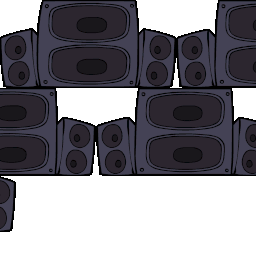
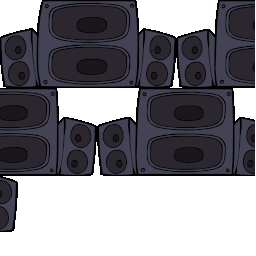
Fix some rendering issues

diff --git a/src/stage/week3.c b/src/stage/week3.c
@@ -76,15 +76,15 @@ void Back_Week3_DrawBG(StageBack *back)
 		RECT src;
 		fixed_t scale;
 	} roof_piece[] = {
-		{{  0, 0,  16, 256}, FIXED_DEC(3,1) * 7 / 10},
+		{{  0, 0,  16, 256}, FIXED_MUL(FIXED_DEC(3,1) * 7 / 10, FIXED_UNIT + FIXED_DEC(SCREEN_WIDEOADD,2) * 10 / 336)},
 		{{ 16, 0,  55, 256}, FIXED_DEC(1,1) * 9 / 10},
 		{{ 71, 0, 128, 256}, FIXED_DEC(265,100) * 7 / 10},
 		{{199, 0,  55, 256}, FIXED_DEC(1,1) * 9 / 10},
-		{{255, 0,   0, 256}, FIXED_DEC(16,1)}
+		{{255, 0,   0, 256}, FIXED_DEC(16,1) + FIXED_DEC(SCREEN_WIDEOADD2,1)}
 	};
 	
 	RECT_FIXED roof_dst = {
-		FIXED_DEC(-210,1) - fx,
+		FIXED_DEC(-210,1) - FIXED_DEC(SCREEN_WIDEOADD,2) - fx,
 		FIXED_DEC(-106,1) - fy,
 		0,
 		FIXED_DEC(220,1)
@@ -98,8 +98,9 @@ void Back_Week3_DrawBG(StageBack *back)
 		roof_dst.x += roof_dst.w;
 	}
 	
+	RECT roof_fillsrc = {0, 255, 1, 0};
 	RECT roof_fill = {0, SCREEN_HEIGHT * 2 / 3, SCREEN_WIDTH, SCREEN_HEIGHT * 1 / 3};
-	Gfx_DrawRect(&roof_fill, 49, 58, 115);
+	Gfx_DrawTex(&this->tex_back2, &roof_fillsrc, &roof_fill);
 	
 	//Move train
 	if (this->train_x <= TRAIN_END_X)
@@ -200,8 +201,9 @@ void Back_Week3_DrawBG(StageBack *back)
 	building_src.y += building_src.h;
 	Stage_DrawTex(&this->tex_back0, &building_src, &building_dst, stage.camera.bzoom);
 	
+	RECT building_fillsrc = {0, 255, 1, 0};
 	RECT building_fill = {0, SCREEN_HEIGHT * 3 / 7, SCREEN_WIDTH, SCREEN_HEIGHT * 4 / 7};
-	Gfx_DrawRect(&building_fill, 16, 8, 25);
+	Gfx_DrawTex(&this->tex_back0, &building_fillsrc, &building_fill);
 	
 	//Draw sky
 	fx = stage.camera.x >> 3;
@@ -209,10 +211,10 @@ void Back_Week3_DrawBG(StageBack *back)
 	
 	RECT sky_src = {0, 0, 255, 128};
 	RECT_FIXED sky_dst = {
-		FIXED_DEC(-166,1) - fx,
-		FIXED_DEC(-117,1) - fy,
-		FIXED_DEC(172,1),
-		FIXED_DEC(110,1)
+		FIXED_DEC(-166,1) - FIXED_DEC(SCREEN_WIDEOADD,2) - fx,
+		FIXED_DEC(-117,1) - FIXED_DEC(SCREEN_WIDEOADD,4) - fy,
+		FIXED_DEC(172,1) + FIXED_DEC(SCREEN_WIDEOADD,1),
+		FIXED_DEC(110,1) + FIXED_DEC(SCREEN_WIDEOADD,2)
 	};
 	
 	Stage_DrawTex(&this->tex_back5, &sky_src, &sky_dst, stage.camera.bzoom);

diff --git a/src/stage/week1.c b/src/stage/week1.c
@@ -28,14 +28,14 @@ void Back_Week1_DrawBG(StageBack *back)
 	
 	RECT curtainl_src = {0, 0, 107, 221};
 	RECT_FIXED curtainl_dst = {
-		FIXED_DEC(-250,1) - fx,
+		FIXED_DEC(-250,1) - FIXED_DEC(SCREEN_WIDEOADD,2) - fx,
 		FIXED_DEC(-150,1) - fy,
 		FIXED_DEC(107,1),
 		FIXED_DEC(221,1)
 	};
 	RECT curtainr_src = {122, 0, 134, 256};
 	RECT_FIXED curtainr_dst = {
-		FIXED_DEC(130,1) - fx,
+		FIXED_DEC(110,1) + FIXED_DEC(SCREEN_WIDEOADD,2) - fx,
 		FIXED_DEC(-150,1) - fy,
 		FIXED_DEC(134,1),
 		FIXED_DEC(256,1)
@@ -50,10 +50,10 @@ void Back_Week1_DrawBG(StageBack *back)
 	
 	RECT stage_src = {0, 0, 256, 59};
 	RECT_FIXED stage_dst = {
-		FIXED_DEC(-215,1) - fx,
+		FIXED_DEC(-230,1) - FIXED_DEC(SCREEN_WIDEOADD,2) - fx,
 		FIXED_DEC(50,1) - fy,
-		FIXED_DEC(432,1),
-		FIXED_DEC(115,1)
+		FIXED_DEC(410,1) + FIXED_DEC(SCREEN_WIDEOADD,1),
+		FIXED_DEC(106,1)
 	};
 	
 	Stage_DrawTex(&this->tex_back0, &stage_src, &stage_dst, stage.camera.bzoom);
@@ -76,9 +76,17 @@ void Back_Week1_DrawBG(StageBack *back)
 		FIXED_DEC(136,1),
 		FIXED_DEC(120,1)
 	};
+	RECT backf_src = {0, 59, 1, 1};
+	RECT backf_dst = {
+		0,
+		0,
+		SCREEN_WIDTH,
+		SCREEN_HEIGHT,
+	};
 	
 	Stage_DrawTex(&this->tex_back0, &backl_src, &backl_dst, stage.camera.bzoom);
 	Stage_DrawTex(&this->tex_back0, &backr_src, &backr_dst, stage.camera.bzoom);
+	Gfx_DrawTex(&this->tex_back0, &backf_src, &backf_dst);
 }
 
 void Back_Week1_Free(StageBack *back)
@@ -107,9 +115,6 @@ StageBack *Back_Week1_New(void)
 	Gfx_LoadTex(&this->tex_back0, Archive_Find(arc_back, "back0.tim"), 0);
 	Gfx_LoadTex(&this->tex_back1, Archive_Find(arc_back, "back1.tim"), 0);
 	Mem_Free(arc_back);
-	
-	//Use purple background
-	Gfx_SetClear(58, 41, 66);
 	
 	return (StageBack*)this;
 }

diff --git a/src/character/speaker.c b/src/character/speaker.c
@@ -17,18 +17,22 @@ void Speaker_Init(Speaker *this)
 void Speaker_Bump(Speaker *this)
 {
 	//Set bump
-	this->bump = FIXED_DEC(4,1) / 24;
+	this->bump = FIXED_DEC(4,1) / 24 - 1;
 }
 
 void Speaker_Tick(Speaker *this, fixed_t x, fixed_t y)
 {
 	//Get frame to use according to bump
 	u8 frame;
-	this->bump -= timer_dt;
 	if (this->bump > 0)
+	{
 		frame = (this->bump * 24) >> FIXED_SHIFT;
+		this->bump -= timer_dt;
+	}
 	else
+	{
 		frame = 0;
+	}
 	
 	//Draw speakers
 	static const struct SpeakerPiece
@@ -37,12 +41,12 @@ void Speaker_Tick(Speaker *this, fixed_t x, fixed_t y)
 		u8 ox, oy;
 	} speaker_draw[4][2] = {
 		{ //bump 0
-			{{ 96,  88, 160, 88},   0,  0},
-			{{  0, 176,  16, 56}, 160, 32},
+			{{ 97,  88, 158, 88},   0,  0},
+			{{  0, 176,  18, 56}, 158, 32},
 		},
 		{ //bump 1
-			{{176,   0,  80, 88},   0,  0},
-			{{  0,  88,  96, 88},  80,  0},
+			{{176,   0,  79, 88},   0,  0},
+			{{  0,  88,  97, 88},  79,  0},
 		},
 		{ //bump 2
 			{{  0,   0,  88, 88},   0,  0},
@@ -59,8 +63,6 @@ void Speaker_Tick(Speaker *this, fixed_t x, fixed_t y)
 	{
 		//Draw piece
 		RECT piece_src = {piece->rect[0], piece->rect[1], piece->rect[2], piece->rect[3]};
-		if ((piece_src.x + piece_src.w) >= 0x100)
-			piece_src.w = 0xFF - piece_src.x;
 		RECT_FIXED piece_dst = {
 			x - FIXED_DEC(88,1) + ((fixed_t)piece->ox << FIXED_SHIFT) - stage.camera.x,
 			y + ((fixed_t)piece->oy << FIXED_SHIFT) - stage.camera.y,

diff --git a/src/stagedef_disc1.h b/src/stagedef_disc1.h
@@ -1,6 +1,6 @@
 	{ //StageId_1_1 (Bopeebo)
 		//Characters
-		{Char_BF_New,   FIXED_DEC(105,1),  FIXED_DEC(100,1)},
+		{Char_BF_New,    FIXED_DEC(60,1),  FIXED_DEC(100,1)},
 		{Char_Dad_New, FIXED_DEC(-120,1),  FIXED_DEC(100,1)},
 		{Char_GF_New,     FIXED_DEC(0,1),    FIXED_DEC(0,1)},
 		
@@ -16,7 +16,7 @@
 	},
 	{ //StageId_1_2 (Fresh)
 		//Characters
-		{Char_BF_New,   FIXED_DEC(105,1),  FIXED_DEC(100,1)},
+		{Char_BF_New,    FIXED_DEC(60,1),  FIXED_DEC(100,1)},
 		{Char_Dad_New, FIXED_DEC(-120,1),  FIXED_DEC(100,1)},
 		{Char_GF_New,     FIXED_DEC(0,1),  FIXED_DEC(-15,1)},
 		
@@ -32,7 +32,7 @@
 	},
 	{ //StageId_1_3 (Dadbattle)
 		//Characters
-		{Char_BF_New,   FIXED_DEC(105,1),  FIXED_DEC(100,1)},
+		{Char_BF_New,    FIXED_DEC(60,1),  FIXED_DEC(100,1)},
 		{Char_Dad_New, FIXED_DEC(-120,1),  FIXED_DEC(100,1)},
 		{Char_GF_New,     FIXED_DEC(0,1),  FIXED_DEC(-15,1)},
 		
@@ -48,7 +48,7 @@
 	},
 	{ //StageId_1_4 (Tutorial)
 		//Characters
-		{Char_BF_New,  FIXED_DEC(105,1),  FIXED_DEC(100,1)},
+		{Char_BF_New,   FIXED_DEC(60,1),  FIXED_DEC(100,1)},
 		{Char_Dad_New,   FIXED_DEC(0,1),  FIXED_DEC(-15,1)}, //TODO
 		{Char_GF_New,    FIXED_DEC(0,1),  FIXED_DEC(-15,1)},
 		

diff --git a/src/stage/week2.c b/src/stage/week2.c
@@ -56,6 +56,26 @@ void Back_Week2_DrawBG(StageBack *back)
 	};
 	
 	Stage_DrawTex(&this->tex_back0, &back_src, &back_dst, stage.camera.bzoom);
+	
+	#if SCREEN_WIDTH > 320
+		RECT backl_src = {0, 0, 1, 256};
+		RECT_FIXED backl_dst = {
+			FIXED_DEC(-185,1) - FIXED_DEC(SCREEN_WIDEADD,2) - fx,
+			FIXED_DEC(-125,1) - fy,
+			FIXED_DEC(SCREEN_WIDEADD,2),
+			FIXED_DEC(267,1)
+		};
+		RECT backr_src = {255, 0, 0, 256};
+		RECT_FIXED backr_dst = {
+			FIXED_DEC(168,1) - fx,
+			FIXED_DEC(-125,1) - fy,
+			FIXED_DEC(SCREEN_WIDEADD,2),
+			FIXED_DEC(267,1)
+		};
+		
+		Stage_DrawTex(&this->tex_back0, &backl_src, &backl_dst, stage.camera.bzoom);
+		Stage_DrawTex(&this->tex_back0, &backr_src, &backr_dst, stage.camera.bzoom);
+	#endif
 }
 
 void Back_Week2_Free(StageBack *back)
